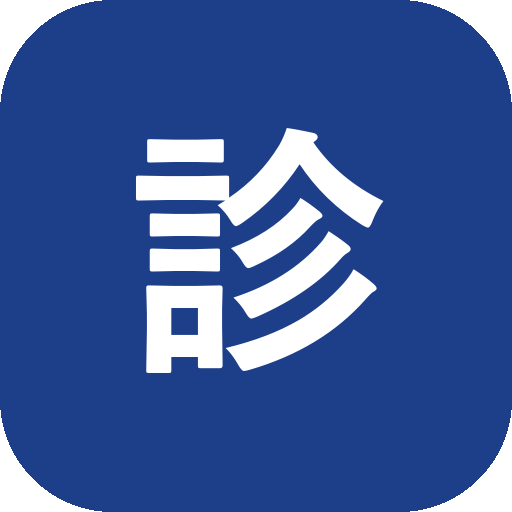
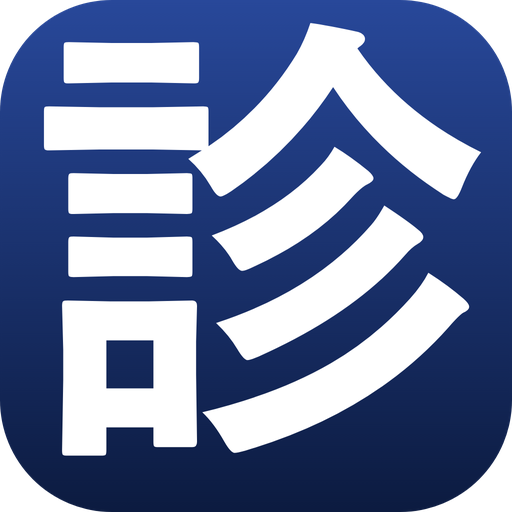
ref r19: 一覧の副題を削除、LDL-C等の途中改行を止める、アイコンを作り直し

diff --git a/ref/index.html b/ref/index.html
@@ -24,8 +24,7 @@ main{padding:16px max(16px,env(safe-area-inset-left,0px)) 0 max(16px,env(safe-ar
   display:flex; flex-direction:column; gap:11px; max-width:640px; margin:0 auto}
 a.card{display:block; background:#fff; border-radius:11px; padding:15px 17px; text-decoration:none; color:inherit;
   box-shadow:0 1px 3px rgba(20,30,60,.10)}
-a.card b{display:block; font-size:16.5px; margin-bottom:3px}
-a.card span{font-size:13px; color:#666}
+a.card b{display:block; font-size:16.5px}
 footer{max-width:640px; margin:22px auto 0; padding:0 18px; font-size:11.5px; color:#8a8f9a; line-height:1.7}
 </style>
 </head>
@@ -35,14 +34,14 @@ footer{max-width:640px; margin:22px auto 0; padding:0 18px; font-size:11.5px; co
 <p>外来で使う診療の整理</p>
 </header>
 <main>
-<a class="card" href="ht.html"><b>高血圧</b><span>測る・なぜ下げる・いつ始める・薬</span></a>
-<a class="card" href="lipid.html"><b>脂質異常症</b><span>診断・目標値・薬・TG・CKD</span></a>
-<a class="card" href="ua.html"><b>高尿酸血症・痛風</b><span>7.0の意味・なぜ下げる・いつ始める・薬</span></a>
-<a class="card" href="stroke.html"><b>脳梗塞</b><span>ペナンブラ・病型・全身管理・退院後</span></a>
-<a class="card" href="dm.html"><b>糖尿病</b><span>高齢者の目標・アルブミン尿・ケレンディア</span></a>
-<a class="card" href="thyroid.html"><b>甲状腺</b><span>結節・慢性・自己抗体とヨード・潜在性</span></a>
+<a class="card" href="ht.html"><b>高血圧</b></a>
+<a class="card" href="lipid.html"><b>脂質異常症</b></a>
+<a class="card" href="ua.html"><b>高尿酸血症・痛風</b></a>
+<a class="card" href="stroke.html"><b>脳梗塞</b></a>
+<a class="card" href="dm.html"><b>糖尿病</b></a>
+<a class="card" href="thyroid.html"><b>甲状腺</b></a>
 </main>
-<footer>オフラインで使えます。内容は作成時点のガイドラインに基づく個人用のメモで、最終的な判断は原典を確認してください。<br>版 2026-10-28</footer>
+<footer>オフラインで使えます。内容は作成時点のガイドラインに基づく個人用のメモで、最終的な判断は原典を確認してください。<br>版 2026-11-01</footer>
 <script>
 if('serviceWorker' in navigator){
   navigator.serviceWorker.register('sw.js').then(function(reg){

diff --git a/ref/dm.html b/ref/dm.html
@@ -120,6 +120,7 @@ footer{font-size:8pt; color:#888; border-top:.3pt solid #ddd; padding-top:1.2mm;
   .nav .sp{margin-left:auto}
 }
 @media print{ .nav{display:none} .tw{overflow:visible} }
+.nb{white-space:nowrap}
 </style>
 </head>
 <body>
@@ -528,6 +529,29 @@ if('serviceWorker' in navigator){
     if(!reloaded){reloaded=true; location.reload();}
   });
 }
+
+// ハイフンやスラッシュを含む英数字は、その途中で改行させない
+(window.nbFix = function(root){
+  var RE = /[A-Za-z0-9][A-Za-z0-9.+%]*(?:[-‐–—\/][A-Za-z0-9.+%]+)+/g;
+  var esc = function(c){ return {'&':'&amp;','<':'&lt;','>':'&gt;'}[c]; };
+  var w = document.createTreeWalker(root || document.body, NodeFilter.SHOW_TEXT, null);
+  var list = [], n;
+  while ((n = w.nextNode())) {
+    var p = n.parentNode;
+    if (!p || p.nodeName === 'SCRIPT' || p.nodeName === 'STYLE') continue;
+    RE.lastIndex = 0;
+    if (RE.test(n.nodeValue)) list.push(n);
+  }
+  list.forEach(function(t){
+    if (!t.parentNode) return;
+    RE.lastIndex = 0;
+    var html = t.nodeValue.replace(/[&<>]/g, esc)
+                          .replace(RE, '<span class="nb">$&</span>');
+    var f = document.createElement('span');
+    f.innerHTML = html;
+    t.parentNode.replaceChild(f, t);
+  });
+})(document.body);
 </script>
 </body>
 </html>

diff --git a/ref/ht.html b/ref/ht.html
@@ -114,6 +114,7 @@ footer{font-size:8pt; color:#888; border-top:.3pt solid #ddd; padding-top:1.2mm;
   .nav .sp{margin-left:auto}
 }
 @media print{ .nav{display:none} .tw{overflow:visible} }
+.nb{white-space:nowrap}
 </style>
 </head>
 <body>
@@ -528,6 +529,29 @@ if('serviceWorker' in navigator){
     if(!reloaded){reloaded=true; location.reload();}
   });
 }
+
+// ハイフンやスラッシュを含む英数字は、その途中で改行させない
+(window.nbFix = function(root){
+  var RE = /[A-Za-z0-9][A-Za-z0-9.+%]*(?:[-‐–—\/][A-Za-z0-9.+%]+)+/g;
+  var esc = function(c){ return {'&':'&amp;','<':'&lt;','>':'&gt;'}[c]; };
+  var w = document.createTreeWalker(root || document.body, NodeFilter.SHOW_TEXT, null);
+  var list = [], n;
+  while ((n = w.nextNode())) {
+    var p = n.parentNode;
+    if (!p || p.nodeName === 'SCRIPT' || p.nodeName === 'STYLE') continue;
+    RE.lastIndex = 0;
+    if (RE.test(n.nodeValue)) list.push(n);
+  }
+  list.forEach(function(t){
+    if (!t.parentNode) return;
+    RE.lastIndex = 0;
+    var html = t.nodeValue.replace(/[&<>]/g, esc)
+                          .replace(RE, '<span class="nb">$&</span>');
+    var f = document.createElement('span');
+    f.innerHTML = html;
+    t.parentNode.replaceChild(f, t);
+  });
+})(document.body);
 </script>
 </body>
 </html>

diff --git a/ref/lipid.html b/ref/lipid.html
@@ -120,6 +120,7 @@ footer{font-size:8pt; color:#888; border-top:.3pt solid #ddd; padding-top:1.2mm;
   .nav .sp{margin-left:auto}
 }
 @media print{ .nav{display:none} .tw{overflow:visible} }
+.nb{white-space:nowrap}
 </style>
 </head>
 <body>
@@ -608,6 +609,29 @@ if('serviceWorker' in navigator){
     if(!reloaded){reloaded=true; location.reload();}
   });
 }
+
+// ハイフンやスラッシュを含む英数字は、その途中で改行させない
+(window.nbFix = function(root){
+  var RE = /[A-Za-z0-9][A-Za-z0-9.+%]*(?:[-‐–—\/][A-Za-z0-9.+%]+)+/g;
+  var esc = function(c){ return {'&':'&amp;','<':'&lt;','>':'&gt;'}[c]; };
+  var w = document.createTreeWalker(root || document.body, NodeFilter.SHOW_TEXT, null);
+  var list = [], n;
+  while ((n = w.nextNode())) {
+    var p = n.parentNode;
+    if (!p || p.nodeName === 'SCRIPT' || p.nodeName === 'STYLE') continue;
+    RE.lastIndex = 0;
+    if (RE.test(n.nodeValue)) list.push(n);
+  }
+  list.forEach(function(t){
+    if (!t.parentNode) return;
+    RE.lastIndex = 0;
+    var html = t.nodeValue.replace(/[&<>]/g, esc)
+                          .replace(RE, '<span class="nb">$&</span>');
+    var f = document.createElement('span');
+    f.innerHTML = html;
+    t.parentNode.replaceChild(f, t);
+  });
+})(document.body);
 </script>
 </body>
 </html>

diff --git a/ref/stroke.html b/ref/stroke.html
@@ -120,6 +120,7 @@ footer{font-size:8pt; color:#888; border-top:.3pt solid #ddd; padding-top:1.2mm;
   .nav .sp{margin-left:auto}
 }
 @media print{ .nav{display:none} .tw{overflow:visible} }
+.nb{white-space:nowrap}
 </style>
 </head>
 <body>
@@ -568,6 +569,29 @@ if('serviceWorker' in navigator){
     if(!reloaded){reloaded=true; location.reload();}
   });
 }
+
+// ハイフンやスラッシュを含む英数字は、その途中で改行させない
+(window.nbFix = function(root){
+  var RE = /[A-Za-z0-9][A-Za-z0-9.+%]*(?:[-‐–—\/][A-Za-z0-9.+%]+)+/g;
+  var esc = function(c){ return {'&':'&amp;','<':'&lt;','>':'&gt;'}[c]; };
+  var w = document.createTreeWalker(root || document.body, NodeFilter.SHOW_TEXT, null);
+  var list = [], n;
+  while ((n = w.nextNode())) {
+    var p = n.parentNode;
+    if (!p || p.nodeName === 'SCRIPT' || p.nodeName === 'STYLE') continue;
+    RE.lastIndex = 0;
+    if (RE.test(n.nodeValue)) list.push(n);
+  }
+  list.forEach(function(t){
+    if (!t.parentNode) return;
+    RE.lastIndex = 0;
+    var html = t.nodeValue.replace(/[&<>]/g, esc)
+                          .replace(RE, '<span class="nb">$&</span>');
+    var f = document.createElement('span');
+    f.innerHTML = html;
+    t.parentNode.replaceChild(f, t);
+  });
+})(document.body);
 </script>
 </body>
 </html>

diff --git a/ref/thyroid.html b/ref/thyroid.html
@@ -120,6 +120,7 @@ footer{font-size:8pt; color:#888; border-top:.3pt solid #ddd; padding-top:1.2mm;
   .nav .sp{margin-left:auto}
 }
 @media print{ .nav{display:none} .tw{overflow:visible} }
+.nb{white-space:nowrap}
 </style>
 </head>
 <body>
@@ -546,6 +547,29 @@ if('serviceWorker' in navigator){
     if(!reloaded){reloaded=true; location.reload();}
   });
 }
+
+// ハイフンやスラッシュを含む英数字は、その途中で改行させない
+(window.nbFix = function(root){
+  var RE = /[A-Za-z0-9][A-Za-z0-9.+%]*(?:[-‐–—\/][A-Za-z0-9.+%]+)+/g;
+  var esc = function(c){ return {'&':'&amp;','<':'&lt;','>':'&gt;'}[c]; };
+  var w = document.createTreeWalker(root || document.body, NodeFilter.SHOW_TEXT, null);
+  var list = [], n;
+  while ((n = w.nextNode())) {
+    var p = n.parentNode;
+    if (!p || p.nodeName === 'SCRIPT' || p.nodeName === 'STYLE') continue;
+    RE.lastIndex = 0;
+    if (RE.test(n.nodeValue)) list.push(n);
+  }
+  list.forEach(function(t){
+    if (!t.parentNode) return;
+    RE.lastIndex = 0;
+    var html = t.nodeValue.replace(/[&<>]/g, esc)
+                          .replace(RE, '<span class="nb">$&</span>');
+    var f = document.createElement('span');
+    f.innerHTML = html;
+    t.parentNode.replaceChild(f, t);
+  });
+})(document.body);
 </script>
 </body>
 </html>

diff --git a/ref/ua.html b/ref/ua.html
@@ -120,6 +120,7 @@ footer{font-size:8pt; color:#888; border-top:.3pt solid #ddd; padding-top:1.2mm;
   .nav .sp{margin-left:auto}
 }
 @media print{ .nav{display:none} .tw{overflow:visible} }
+.nb{white-space:nowrap}
 </style>
 </head>
 <body>
@@ -466,6 +467,29 @@ if('serviceWorker' in navigator){
     if(!reloaded){reloaded=true; location.reload();}
   });
 }
+
+// ハイフンやスラッシュを含む英数字は、その途中で改行させない
+(window.nbFix = function(root){
+  var RE = /[A-Za-z0-9][A-Za-z0-9.+%]*(?:[-‐–—\/][A-Za-z0-9.+%]+)+/g;
+  var esc = function(c){ return {'&':'&amp;','<':'&lt;','>':'&gt;'}[c]; };
+  var w = document.createTreeWalker(root || document.body, NodeFilter.SHOW_TEXT, null);
+  var list = [], n;
+  while ((n = w.nextNode())) {
+    var p = n.parentNode;
+    if (!p || p.nodeName === 'SCRIPT' || p.nodeName === 'STYLE') continue;
+    RE.lastIndex = 0;
+    if (RE.test(n.nodeValue)) list.push(n);
+  }
+  list.forEach(function(t){
+    if (!t.parentNode) return;
+    RE.lastIndex = 0;
+    var html = t.nodeValue.replace(/[&<>]/g, esc)
+                          .replace(RE, '<span class="nb">$&</span>');
+    var f = document.createElement('span');
+    f.innerHTML = html;
+    t.parentNode.replaceChild(f, t);
+  });
+})(document.body);
 </script>
 </body>
 </html>

diff --git a/ref/sw.js b/ref/sw.js
@@ -1,4 +1,4 @@
-const CACHE = 'ref-20261101-r18';
+const CACHE = 'ref-20261101-r19';
 const ASSETS = [
   './',
   './index.html',
